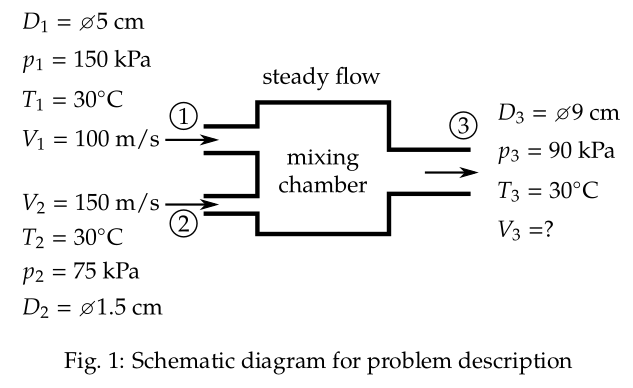
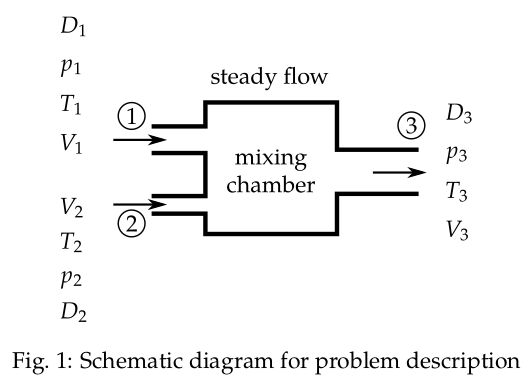
dynamic q1.6

diff --git a/cff/chap01/online/06/index.html b/cff/chap01/online/06/index.html
@@ -16,16 +16,9 @@
     <!-- Bootstrap CSS -->
     <link rel="stylesheet" href="../../../../vendor/bootstrap/css/bootstrap.min.css">
 
-    <!-- Math rendering -->
-    <script src="https://polyfill.io/v3/polyfill.min.js?features=es6"></script>
-    <script id="MathJax-script" async src="https://cdn.jsdelivr.net/npm/mathjax@3/es5/tex-mml-chtml.js"></script>
-
     <!--Font definitions-->
     <link href="https://fonts.googleapis.com/css2?family=Exo&family=Montserrat&family=Libre+Baskerville"
         rel="stylesheet">
-
-    <!-- Add icon library -->
-    <link rel="stylesheet" href="https://cdnjs.cloudflare.com/ajax/libs/font-awesome/4.7.0/css/font-awesome.min.css">
 
     <!--My styles-->
     <link rel="stylesheet" href="../style.css">
@@ -55,32 +48,52 @@
         <hr>
         <h4>Problem 1.6:</h4>
         <div class="font1 text-justify">
-            Two air streams are mixed in a chamber. One stream enters the chamber through a 5 cm diameter
-            pipe at a velocity of 100 m/s with a pressure of 150 kPa and a temperature of 30<sup>o</sup>C.
-            The other stream enters the chamber through a 1.5 cm diameter pipe at a velocity of 150 m/s
-            with a pressure of 75 kPa and a temperature of 30<sup>o</sup>C.
-            The air leaves the chamber through a 9 cm diameter pipe at a pressure of 90 kPa and a
-            temperature of 30<sup>o</sup>C. Assuming that the flow is steady, find the velocity in the
-            exit pipe.
+            Two air streams are mixed in a chamber. One stream enters the chamber through a
+            <input type="number" id="D1" size="2" value="5">cm diameter
+            pipe at a velocity of
+            <input type="number" id="V1" size="3" value="100">m/s
+            with a pressure of
+            <input type="number" id="p1" size="3" value="150">kPa
+            and a temperature of
+            <input type="number" id="T1" size="3" value="30"><sup>o</sup>C.
+            The other stream enters the chamber through a
+            <input type="number" id="D2" size="2" value="1.5">cm diameter
+            pipe at a velocity of
+            <input type="number" id="V2" size="3" value="150">m/s
+            with a pressure of
+            <input type="number" id="p2" size="3" value="75">kPa
+            and a temperature of
+            <input type="number" id="T2" size="3" value="30"><sup>o</sup>C.
+            The air leaves the chamber through a
+            <input type="number" id="D3" size="2" value="9">cm
+            diameter pipe at a pressure of
+            <input type="number" id="p3" size="3" value="90">kPa
+            and a temperature of
+            <input type="number" id="T3" size="3" value="30"><sup>o</sup>C.
+            Assuming that the flow is steady, find the velocity in the exit pipe.
         </div>
         <br>
         <h4>Solution:</h4>
         <div class="font3">
             <p>
-                Given: Steady flow <br>
-                - \( T_{1}=30^{\circ}\text{C}=303\,\text{K} \),
-                \( p_{1}=150\,\text{kPa} \),
-                \( D_{1}= ⌀5\,\text{cm} \),
-                \( V_{1}=100\,\text{m/s} \) (Inlet)
-                <br>
-                - \( T_{2}=30^{\circ}\text{C}=303\,\text{K} \),
-                \( p_{2}=75\,\text{kPa} \),
-                \( D_{2}= ⌀1.5\,\text{cm} \),
-                \( V_{2}=150\,\text{m/s} \) (Inlet)
-                <br>
-                - \( T_{3}=30^{\circ}\text{C}=303\,\text{K} \),
-                \( p_{3}=90\,\text{kPa}, D_{3}= ⌀9\,\text{cm} \),
-                \( V_{3}=?\,\text{m/s} \) (Outlet)
+                Given: Steady flow
+                <div id="given1">
+                    <!-- - \( T_{1}=30^{\circ}\text{C}=303\,\text{K} \),
+                    \( p_{1}=150\,\text{kPa} \),
+                    \( D_{1}= ⌀5\,\text{cm} \),
+                    \( V_{1}=100\,\text{m/s} \) (Inlet) -->
+                </div>
+                <div id="given2">
+                    <!-- - \( T_{2}=30^{\circ}\text{C}=303\,\text{K} \),
+                    \( p_{2}=75\,\text{kPa} \),
+                    \( D_{2}= ⌀1.5\,\text{cm} \),
+                    \( V_{2}=150\,\text{m/s} \) (Inlet) -->
+                </div>
+                <div id="given3">
+                    <!-- - \( T_{3}=30^{\circ}\text{C}=303\,\text{K} \),
+                    \( p_{3}=90\,\text{kPa}, D_{3}= ⌀9\,\text{cm} \),
+                    \( V_{3}=?\,\text{m/s} \) (Outlet) -->
+                </div>
             </p>
 
             <p>The schematic diagram of the problem description is shown in Fig. 1.</p>
@@ -94,17 +107,23 @@
                 temperatures and using the ideal gas equation.
             </p>
 
-            $$
-            \rho_{1}=\frac{p_{1}}{R\,T_{1}}=\frac{150\times10^{3}}{287\times303}=1.7249\,\text{kg/m}^{3}
-            $$
+            <div id="rho1-out">
+                <!-- $$
+                \rho_{1}=\frac{p_{1}}{R\,T_{1}}=\frac{150\times10^{3}}{287\times303}=1.7249\,\text{kg/m}^{3}
+                $$ -->
+            </div>
 
-            $$
-            \rho_{2}=\frac{p_{2}}{R\,T_{2}}=\frac{75\times10^{3}}{287\times303}=0.86246\,\text{kg/m}^{3}
-            $$
+            <div id="rho2-out">
+                <!-- $$
+                \rho_{2}=\frac{p_{2}}{R\,T_{2}}=\frac{75\times10^{3}}{287\times303}=0.86246\,\text{kg/m}^{3}
+                $$ -->
+            </div>
 
-            $$
-            \rho_{3}=\frac{p_{1}}{R\,T_{1}}=\frac{90\times10^{3}}{287\times303}=1.0349\,\text{kg/m}^{3}
-            $$
+            <div id="rho3-out">
+                <!-- $$
+                \rho_{3}=\frac{p_{1}}{R\,T_{1}}=\frac{90\times10^{3}}{287\times303}=1.0349\,\text{kg/m}^{3}
+                $$ -->
+            </div>
 
             <!-- Ad Begin -->
             <br>
@@ -130,29 +149,37 @@
 
             $$\begin{aligned}
 
-            m_{1}+m_{2} &= m_{3} \\ \\
+            m_{1}+m_{2} &= m_{3} \\
 
-            \rho_{1}\,A_{1}\,V_{1}+\rho_{2}\,A_{2}\,V_{2} &= \rho_{3}\,A_{3}\,V_{3} \\ \\
+            \rho_{1}\,A_{1}\,V_{1}+\rho_{2}\,A_{2}\,V_{2} &= \rho_{3}\,A_{3}\,V_{3} \\
 
             \rho_{1}\times\frac{\pi}{4}D_{1}^{2}\times V_{1} +
             \rho_{2}\times\frac{\pi}{4}D_{2}^{2}\times V_{2} &=
-            \rho_{3}\times\frac{\pi}{4}D_{3}^{2}\times V_{3} \\ \\
-
-            1.7249\times\frac{\pi}{4}\times0.05^{2}\times100
-            +0.86246\times\frac{\pi}{4}\times0.015^{2}\times150 & =
-            1.0349\times\frac{\pi}{4}\times0.09^{2}\times V_{3}
+            \rho_{3}\times\frac{\pi}{4}D_{3}^{2}\times V_{3}
 
             \end{aligned}$$
 
-            $$
-            V_{3}=\frac{1.7249\times\frac{\pi}{4}\times0.05^{2}\times100 +
-            0.86246\times\frac{\pi}{4}\times0.015^{2}\times150}{1.0349\times\frac{\pi}{4}
-            \times0.09^{2}}
-            $$
+            <div id="mass-eqn">
+                <!-- $$
+                1.7249\times\frac{\pi}{4}\times0.05^{2}\times100
+                +0.86246\times\frac{\pi}{4}\times0.015^{2}\times150 =
+                1.0349\times\frac{\pi}{4}\times0.09^{2}\times V_{3}
+                $$ -->
+            </div>
 
-            $$
-            \boxed{V_{3}=54.915\,\text{m/s}}\ .
-            $$
+            <div id="V3-eqn">
+                <!-- $$
+                V_{3}=\frac{1.7249\times\frac{\pi}{4}\times0.05^{2}\times100 +
+                0.86246\times\frac{\pi}{4}\times0.015^{2}\times150}{1.0349\times\frac{\pi}{4}
+                \times0.09^{2}}
+                $$ -->
+            </div>
+
+            <div id="V3-out">
+                <!-- $$
+                \boxed{V_{3}=54.915\,\text{m/s}}\ .
+                $$ -->
+            </div>
 
         </div>
 
@@ -201,6 +228,9 @@
     <!-- jQuery first, then Bootstrap JS -->
     <script src="../../../../vendor/jquery/jquery.slim.min.js"></script>
     <script src="../../../../vendor/bootstrap/js/bootstrap.min.js"></script>
+    <!-- MathJax -->
+    <script id="MathJax-script" async src="https://cdn.jsdelivr.net/npm/mathjax@4/tex-mml-chtml.js"></script>
+    <script src="script-min.js"></script>
 </body>
 
 </html>

diff --git a/cff/chap01/online/06/script-min.js b/cff/chap01/online/06/script-min.js
@@ -1,0 +1,18 @@
+function c(a,b){a.g&&b==a.l||(a.g&&b==a.l||Number.isNaN(b)||!Number.isFinite(b)||(b=Math.max(b,.1),b=Math.min(b,100),a.l=b,d(a),e(a),f(a),g(a)),a.H.value=`${a.l}`)}function h(a,b){a.g&&b==a.B||(a.g&&b==a.B||Number.isNaN(b)||!Number.isFinite(b)||(b=Math.max(b,0),b=Math.min(b,2E3),a.B=b,d(a),e(a),f(a),g(a)),a.N.value=`${a.B}`)}
+function k(a,b){a.g&&b==a.h||(a.g&&b==a.h||Number.isNaN(b)||!Number.isFinite(b)||(b=Math.max(b,1),b=Math.min(b,1E3),a.h=b,l(a,a.h*1E3/287/(a.u+273)),e(a),m(a)),a.P.value=`${a.h}`)}function n(a,b){a.g&&b==a.u||(a.g&&b==a.u||Number.isNaN(b)||!Number.isFinite(b)||(b=Math.max(b,-100),b=Math.min(b,1E3),a.u=b,l(a,a.h*1E3/287/(a.u+273)),e(a),m(a)),a.K.value=`${a.u}`)}
+function u(a,b){a.g&&b==a.m||(a.g&&b==a.m||Number.isNaN(b)||!Number.isFinite(b)||(b=Math.max(b,.1),b=Math.min(b,100),a.m=b,d(a),v(a),f(a),g(a)),a.I.value=`${a.m}`)}function w(a,b){a.g&&b==a.C||(a.g&&b==a.C||Number.isNaN(b)||!Number.isFinite(b)||(b=Math.max(b,0),b=Math.min(b,2E3),a.C=b,d(a),v(a),f(a),g(a)),a.O.value=`${a.C}`)}
+function x(a,b){a.g&&b==a.i||(a.g&&b==a.i||Number.isNaN(b)||!Number.isFinite(b)||(b=Math.max(b,1),b=Math.min(b,1E3),a.i=b,y(a,a.i*1E3/287/(a.v+273)),v(a),z(a)),a.R.value=`${a.i}`)}function A(a,b){a.g&&b==a.v||(a.g&&b==a.v||Number.isNaN(b)||!Number.isFinite(b)||(b=Math.max(b,-100),b=Math.min(b,1E3),a.v=b,y(a,a.i*1E3/287/(a.v+273)),v(a),z(a)),a.L.value=`${a.v}`)}
+function B(a,b){a.g&&b==a.o||(a.g&&b==a.o||Number.isNaN(b)||!Number.isFinite(b)||(b=Math.max(b,.1),b=Math.min(b,100),a.o=b,d(a),C(a),f(a),g(a)),a.J.value=`${a.o}`)}function D(a,b){a.g&&b==a.j||(a.g&&b==a.j||Number.isNaN(b)||!Number.isFinite(b)||(b=Math.max(b,1),b=Math.min(b,1E3),a.j=b,E(a,a.j*1E3/287/(a.A+273)),C(a),F(a)),a.S.value=`${a.j}`)}
+function G(a,b){a.g&&b==a.A||(a.g&&b==a.A||Number.isNaN(b)||!Number.isFinite(b)||(b=Math.max(b,-100),b=Math.min(b,1E3),a.A=b,E(a,a.j*1E3/287/(a.A+273)),C(a),F(a)),a.M.value=`${a.A}`)}function d(a){var b=a.D;var p=a.l,J=a.B,K=a.F,q=a.m,L=a.C,M=a.G,r=a.o;p*=.01;q*=.01;r*=.01;const t=Math.PI/4;b=(b*t*p*p*J+K*t*q*q*L)/(M*t*r*r);a.g&&b==a.T||a.g&&b==a.T||Number.isNaN(b)||!Number.isFinite(b)||(a.T=b,a.W.innerHTML=`$$ \\boxed{V_{3}=${a.T.toPrecision(6)}\\,\\text{m/s}}\\ . $$`,H())}
+function l(a,b){a.g&&b==a.D||a.g&&b==a.D||Number.isNaN(b)||!Number.isFinite(b)||(a.D=b,d(a),m(a),f(a),g(a))}function y(a,b){a.g&&b==a.F||a.g&&b==a.F||Number.isNaN(b)||!Number.isFinite(b)||(a.F=b,d(a),z(a),f(a),g(a))}function E(a,b){a.g&&b==a.G||a.g&&b==a.G||Number.isNaN(b)||!Number.isFinite(b)||(a.G=b,d(a),F(a),f(a),g(a))}
+function e(a){var b=a.u;a.X.innerHTML=`- ${`\\( T_{1}=${b}^{\\circ}\\text{C}=${b+273}\\,\\text{K} \\)`}, ${`\\( p_{1}=${a.h}\\,\\text{kPa} \\)`}, ${`\\( D_{1}= \u2300${a.l}\\,\\text{cm} \\)`}, ${`\\( V_{1}=${a.B}\\,\\text{m/s} \\)`} (Inlet)`;H()}function v(a){var b=a.v;a.Y.innerHTML=`- ${`\\( T_{2}=${b}^{\\circ}\\text{C}=${b+273}\\,\\text{K} \\)`}, ${`\\( p_{2}=${a.i}\\,\\text{kPa} \\)`}, ${`\\( D_{2}= \u2300${a.m}\\,\\text{cm} \\)`}, ${`\\( V_{2}=${a.C}\\,\\text{m/s} \\)`} (Inlet)`;H()}
+function C(a){var b=a.A;a.Z.innerHTML=`- ${`\\( T_{3}=${b}^{\\circ}\\text{C}=${b+273}\\,\\text{K} \\)`}, ${`\\( p_{3}=${a.j}\\,\\text{kPa} \\)`}, ${`\\( D_{3}= \u2300${a.o}\\,\\text{cm} \\)`}, ${"\\( V_{3}=?\\,\\text{m/s} \\)"} (Outlet)`}function m(a){a.U.innerHTML=`$$ \\rho_{1}=\\frac{p_{1}}{R\\,T_{1}}=\\frac{${a.h}\\times10^{3}}{287\\times ${a.u+273}}=${a.D.toPrecision(6)}\\,\\text{kg/m}^{3} $$`;H()}
+function z(a){a.aa.innerHTML=`$$ \\rho_{2}=\\frac{p_{2}}{R\\,T_{2}}=\\frac{${a.i}\\times10^{3}}{287\\times ${a.v+273}}=${a.F.toPrecision(6)}\\,\\text{kg/m}^{3} $$`;H()}function F(a){a.ba.innerHTML=`$$ \\rho_{3}=\\frac{p_{1}}{R\\,T_{1}}=\\frac{${a.j}\\times10^{3}}{287\\times ${a.A+273}}=${a.G.toPrecision(6)}\\,\\text{kg/m}^{3} $$`;H()}
+function f(a){a.$.innerHTML=`$$ ${a.D.toPrecision(6)}\\times\\frac{\\pi}{4}\\times${a.l}^{2}\\times${a.B} + ${a.F.toPrecision(6)}\\times\\frac{\\pi}{4}\\times${a.m}^{2}\\times${a.C} = ${a.G.toPrecision(6)}\\times\\frac{\\pi}{4}\\times${a.o}^{2}\\times V_{3} $$`;H()}
+function g(a){a.V.innerHTML=`$$ V_{3}=\\frac{${a.D.toPrecision(6)}\\times\\frac{\\pi}{4}\\times${a.l}^{2}\\times${a.B} + ${a.F.toPrecision(6)}\\times\\frac{\\pi}{4}\\times${a.m}^{2}\\times${a.C}}{${a.G.toPrecision(6)}\\times\\frac{\\pi}{4} \\times${a.o}^{2}} $$`;H()}
+class I{constructor(){this.g=!1;this.H=document.getElementById("D1");this.H.addEventListener("change",()=>c(this,parseFloat(this.H.value)));this.H.step="0.1";this.H.min="0.1";this.H.max="100";this.N=document.getElementById("V1");this.N.addEventListener("change",()=>h(this,parseInt(this.N.value,10)));this.N.step="1";this.N.min="0.0";this.N.max="2000";this.P=document.getElementById("p1");this.P.addEventListener("change",()=>k(this,parseInt(this.P.value,10)));this.P.step="1";this.P.min="1";this.P.max=
+"1000";this.K=document.getElementById("T1");this.K.addEventListener("change",()=>n(this,parseInt(this.K.value,10)));this.K.step="1";this.K.min="-100";this.K.max="1000";this.I=document.getElementById("D2");this.I.addEventListener("change",()=>u(this,parseFloat(this.I.value)));this.I.step="0.1";this.I.min="0.1";this.I.max="100";this.O=document.getElementById("V2");this.O.addEventListener("change",()=>w(this,parseInt(this.O.value,10)));this.O.step="1";this.O.min="0.0";this.O.max="2000";this.R=document.getElementById("p2");
+this.R.addEventListener("change",()=>x(this,parseInt(this.R.value,10)));this.R.step="1";this.R.min="1";this.R.max="1000";this.L=document.getElementById("T2");this.L.addEventListener("change",()=>A(this,parseInt(this.L.value,10)));this.L.step="1";this.L.min="-100";this.L.max="1000";this.J=document.getElementById("D3");this.J.addEventListener("change",()=>B(this,parseFloat(this.J.value)));this.J.step="0.1";this.J.min="0.1";this.J.max="100";this.S=document.getElementById("p3");this.S.addEventListener("change",
+()=>D(this,parseInt(this.S.value,10)));this.S.step="1";this.S.min="1";this.S.max="1000";this.M=document.getElementById("T3");this.M.addEventListener("change",()=>G(this,parseInt(this.M.value,10)));this.M.step="1";this.M.min="-100";this.M.max="1000";this.X=document.getElementById("given1");this.Y=document.getElementById("given2");this.Z=document.getElementById("given3");this.U=document.getElementById("rho1-out");this.aa=document.getElementById("rho2-out");this.ba=document.getElementById("rho3-out");
+this.$=document.getElementById("mass-eqn");this.V=document.getElementById("V3-eqn");this.W=document.getElementById("V3-out");this.l=5;this.B=100;this.h=150;this.u=30;this.m=1.5;this.C=150;this.i=75;this.v=30;this.o=9;this.T=0;this.j=90;this.A=30;this.G=this.F=this.D=0;c(this,this.l);h(this,this.B);k(this,this.h);n(this,this.u);u(this,this.m);w(this,this.C);x(this,this.i);A(this,this.v);B(this,this.o);D(this,this.j);G(this,this.A);this.g=!0}}let N=!1;
+document.getElementById("MathJax-script")?.addEventListener("load",()=>{N=!0;console.log("MathJax loaded successfully!")});function H(){N?MathJax.typesetPromise():console.log("MathJax not loaded yet!")}new I;
